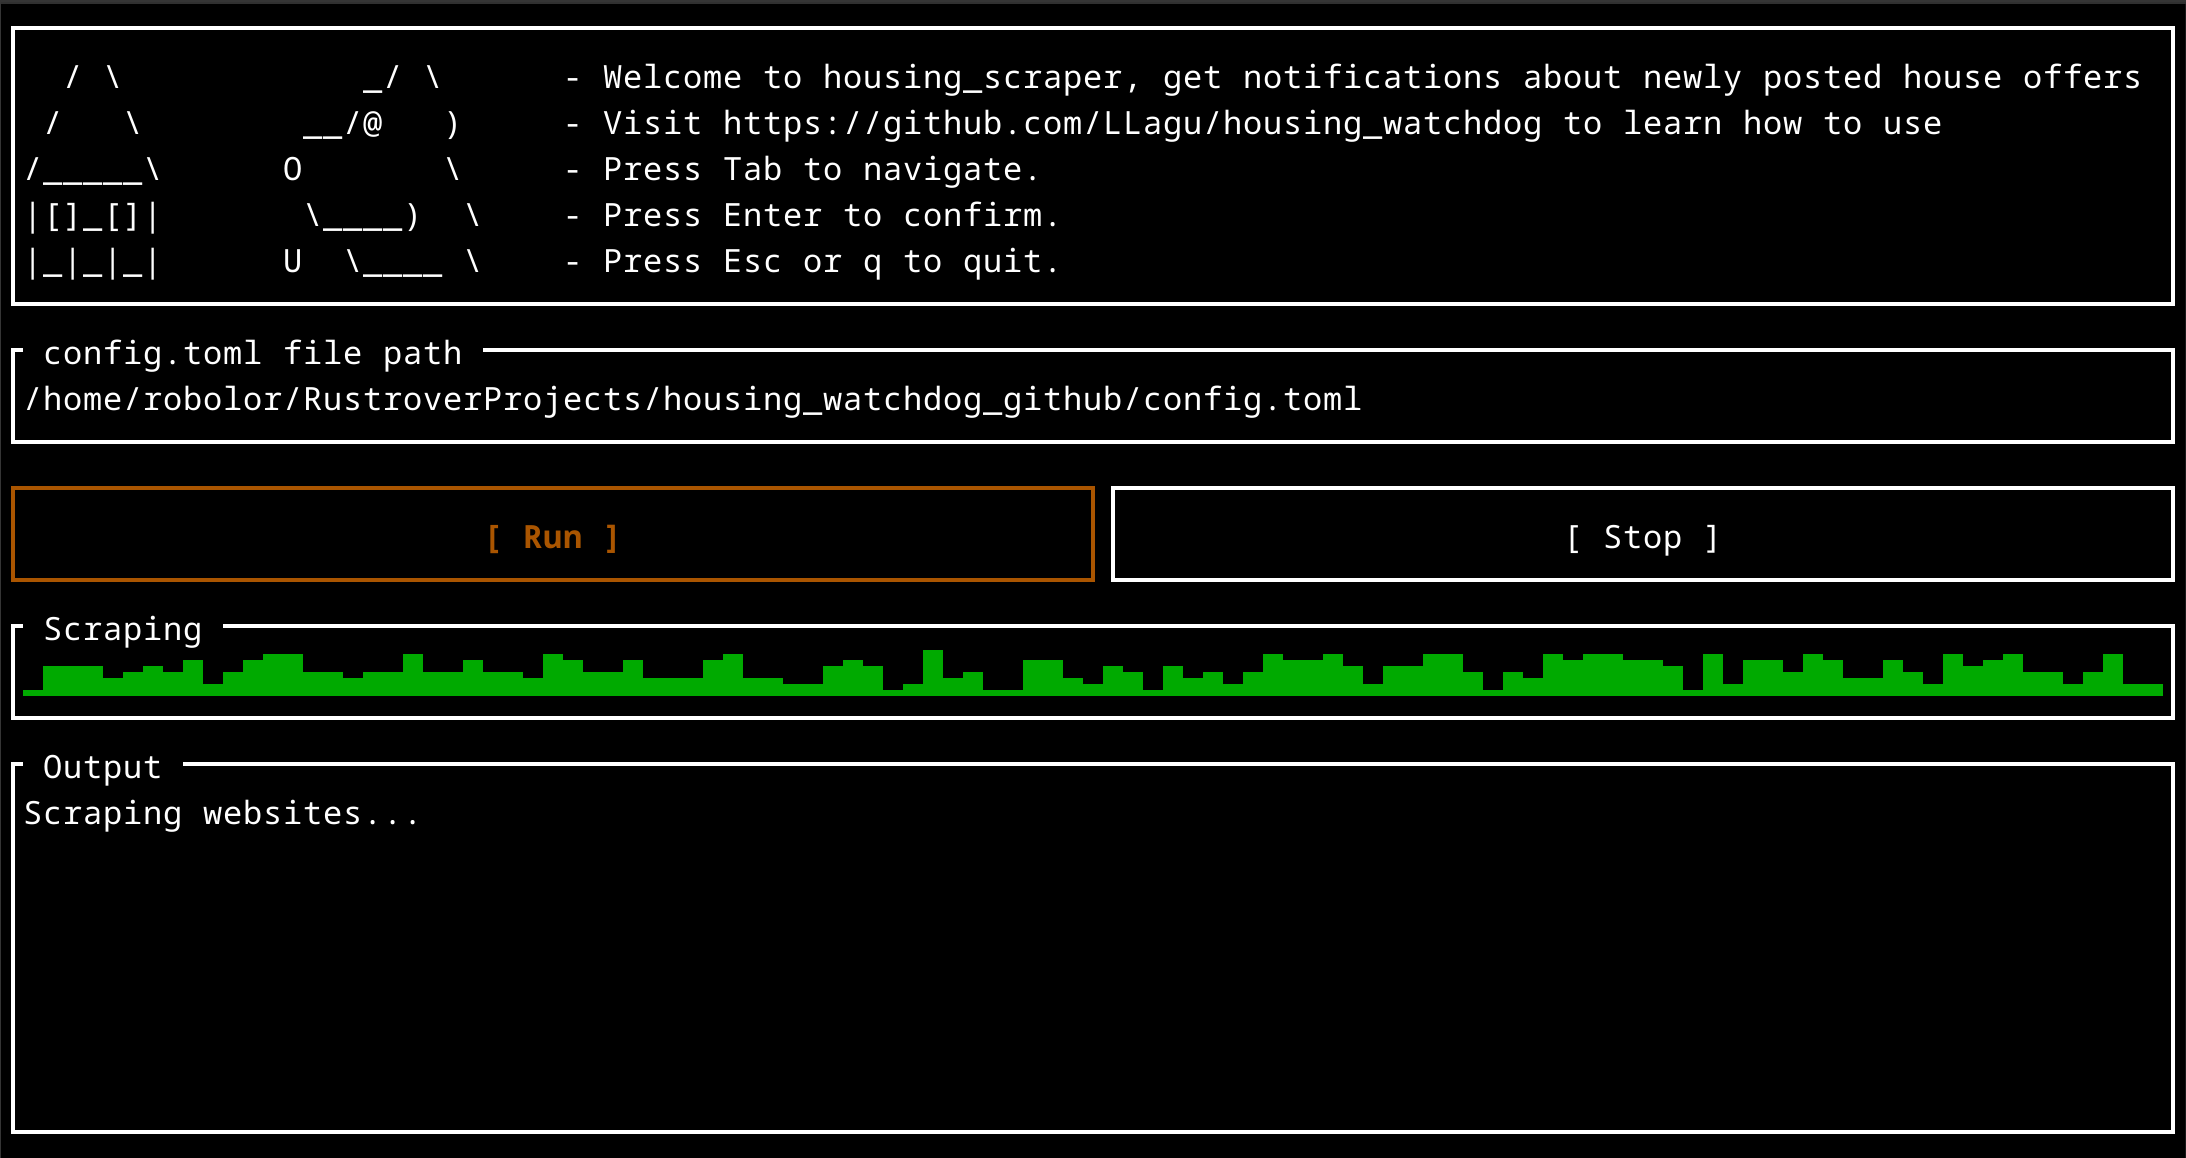
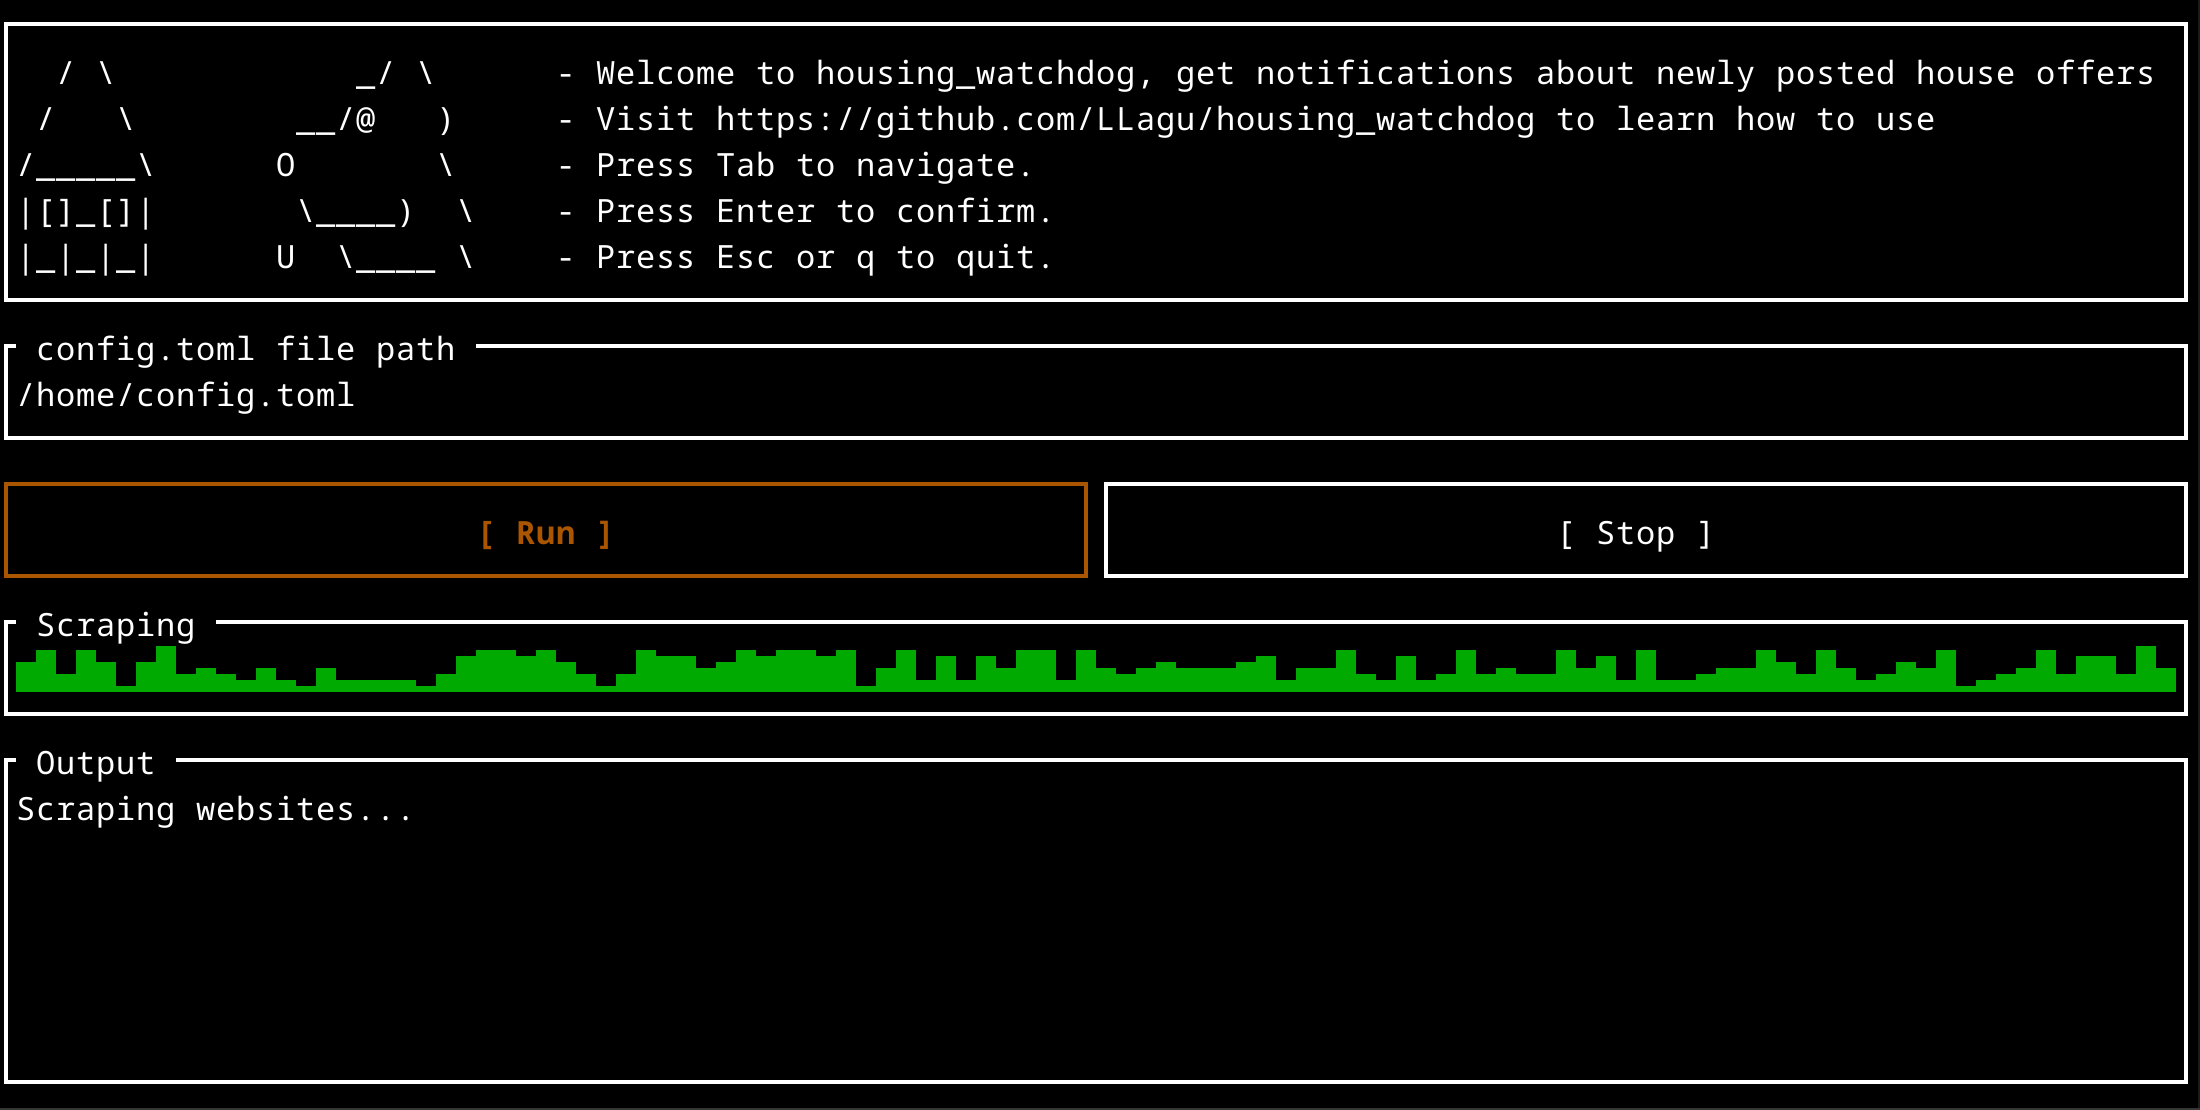
Dynamically finding free port for chromedriver

diff --git a/src/ratatui_ui.rs b/src/ratatui_ui.rs
@@ -3,14 +3,14 @@ use rand::{
     rngs::ThreadRng,
 };
 
+use crate::session::{get_prev_session_file_path, PrevSessionFileType};
 use crate::watchdog_logic;
 use futures::FutureExt;
-use std::{collections::VecDeque, time::Instant};
 use std::fs::{read_to_string, File, OpenOptions};
 use std::io::Write;
+use std::{collections::VecDeque, time::Instant};
 use tokio::sync::oneshot;
 use tui_input::Input;
-use crate::session::{get_prev_session_file_path, PrevSessionFileType};
 
 pub(crate) enum InputMode {
     FilePathInput,
@@ -34,7 +34,6 @@ impl App {
         let mut initial_data = VecDeque::with_capacity(100);
         let mut rng = rand::thread_rng();
 
-
         for _ in 0..200 {
             initial_data.push_back(0);
         }
@@ -49,8 +48,6 @@ impl App {
             cancel_sender: None,
         }
     }
-
-
 
     pub(crate) fn run_watchdogs(&mut self) {
         // Create a channel for cancellation
@@ -92,6 +89,7 @@ impl App {
             let _ = cancel_tx.send(()); // Ignore errors if receiver is already dropped
         }
 
+        self.output = format!("Scraping stopped.");
         self.loading = false;
     }
     pub(crate) fn next_input(&mut self) {
@@ -117,21 +115,27 @@ impl App {
 
 fn save_prev_config_path(content: &String) {
     let prev_config_path = get_prev_session_file_path(PrevSessionFileType::ConfigPath);
-    let mut file = OpenOptions::new().write(true).truncate(true).open(prev_config_path).unwrap();
+    let mut file = OpenOptions::new()
+        .write(true)
+        .truncate(true)
+        .open(prev_config_path)
+        .unwrap();
     file.write_all(content.as_bytes()).unwrap()
 }
 
 fn load_prev_config_path() -> String {
     let prev_config_path = get_prev_session_file_path(PrevSessionFileType::ConfigPath);
     match read_to_string(&prev_config_path) {
-        Ok(contents) => {contents}
+        Ok(contents) => contents,
         Err(e) => match e.kind() {
             std::io::ErrorKind::NotFound => {
                 File::create(prev_config_path);
                 String::from("")
             }
-            _ => {println!("{:?}", e);
-                String::from("")},
+            _ => {
+                println!("{:?}", e);
+                String::from("")
+            }
         },
     }
 }

diff --git a/src/driver.rs b/src/driver.rs
@@ -1,27 +1,31 @@
+use port_check::{free_local_port, free_local_port_in_range};
+use serde::Deserialize;
 use std::process::{Command, Stdio};
 use std::time::Duration;
-use serde::Deserialize;
 use thirtyfour::error::WebDriverResult;
-use thirtyfour::{DesiredCapabilities, WebDriver};
+use thirtyfour::{ChromiumLikeCapabilities, DesiredCapabilities, WebDriver};
+use uuid::Timestamp;
 
 #[derive(Deserialize)]
 pub(crate) struct ChromedriverConfig {
     pub(crate) chromedriver_path: String,
 }
 
-pub(crate) async fn start_chromedriver(chromedriver_path: String) {
+pub(crate) async fn start_chromedriver(chromedriver_path: String) -> String {
     let chromedriver_path = chromedriver_path;
-    tokio::time::sleep(Duration::from_secs(2)).await;
+    let free_port = free_local_port().unwrap().to_string();
     Command::new(chromedriver_path)
-        .arg("--port=9999")
+        .arg(format!("{}{}", "--port=", free_port))
         .stdin(Stdio::null())
         .stdout(Stdio::null())
         .stderr(Stdio::null())
         .spawn()
         .expect("Failed to start chromedriver");
     tokio::time::sleep(Duration::from_secs(1)).await;
+    free_port
 }
-pub(crate) async fn create_driver() -> WebDriverResult<WebDriver> {
-    let caps = DesiredCapabilities::chrome();
-    WebDriver::new("http://localhost:9999", caps).await
+pub(crate) async fn create_driver(port: String) -> WebDriverResult<WebDriver> {
+    let mut caps = DesiredCapabilities::chrome();
+    WebDriver::new(format!("{}{}", { "http://localhost:" }, { port }), caps).await
 }
+

diff --git a/src/main.rs b/src/main.rs
@@ -32,12 +32,12 @@ async fn watchdog_logic(config_path: &str) {
 
     let chromedriver_config: driver::ChromedriverConfig =
         toml::from_str(config_path_fmt.as_str()).unwrap();
-    driver::start_chromedriver(chromedriver_config.chromedriver_path).await;
+    let free_local_port = driver::start_chromedriver(chromedriver_config.chromedriver_path).await;
 
     let configs: scraper::ScraperConfigVec = toml::from_str(config_path_fmt.as_str()).unwrap();
     let mut scraper_structs = vec![];
     for config in configs.scraper {
-        scraper::from_config(&mut scraper_structs, config).await;
+        scraper::from_config(&mut scraper_structs, config, free_local_port.clone()).await;
     }
 
     let futures: Vec<_> = scraper_structs
@@ -47,10 +47,10 @@ async fn watchdog_logic(config_path: &str) {
     let results = future::join_all(futures).await;
 }
 
-// Debug logic without UI
+// // Debug logic without UI
 // #[tokio::main]
 // async fn main() {
-//     watchdog_logic("/home/robolor/RustroverProjects/housing_watchdog_github/config.toml").await;
+//     watchdog_logic("/home/config.toml").await;
 // }
 
 #[tokio::main]

diff --git a/src/scraper.rs b/src/scraper.rs
@@ -134,12 +134,16 @@ impl Scraper {
     }
 }
 
-pub(crate) async fn from_config(scraper_structs: &mut Vec<Scraper>, config: ScraperConfig) {
+pub(crate) async fn from_config(
+    scraper_structs: &mut Vec<Scraper>,
+    config: ScraperConfig,
+    port: String,
+) {
     scraper_structs.push(Scraper {
         name: config.name,
         url: config.url,
         base_url_to_prepend: config.base_url_to_prepend,
-        driver: create_driver().await.unwrap(),
+        driver: create_driver(port).await.unwrap(),
         listing: vec![],
         house_link_css: config.house_link_css,
         ntfy_topic: config.ntfy_topic,

diff --git a/src/logo.rs b/src/logo.rs
@@ -1,4 +1,4 @@
-pub(crate) static LOGO: &str = r"  / \            _/ \      - Welcome to housing_scraper, get notifications about newly posted house offers
+pub(crate) static LOGO: &str = r"  / \            _/ \      - Welcome to housing_watchdog, get notifications about newly posted house offers
  /   \        __/@   )     - Visit https://github.com/LLagu/housing_watchdog to learn how to use
 /_____\      O       \     - Press Tab to navigate.
 |[]_[]|       \____)  \    - Press Enter to confirm.
